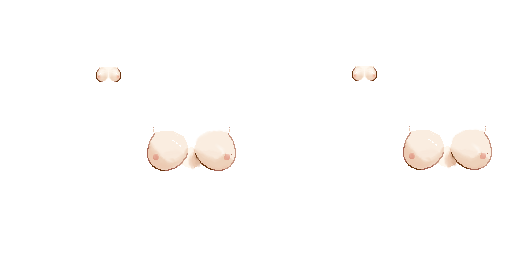
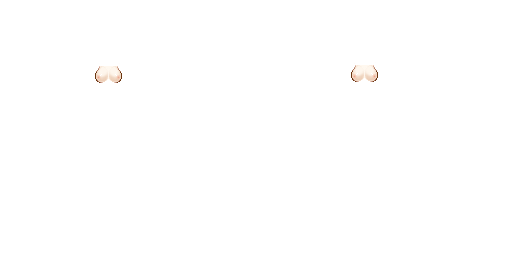
Release the boobas

diff --git a/game/04-Variables/canvasmodel-main.js b/game/04-Variables/canvasmodel-main.js
@@ -1084,7 +1084,7 @@ Renderer.CanvasModels.main = {
 			srcfn(options) {
 				const mannequin = (options.mannequin) ? "mannequin/" : "";
 				const prefix = `img/body/${mannequin}`;
-				const suffix = options.breasts === "cleavage" && options.breast_size >= 3 ? "_clothed.png" : ".png";
+				const suffix = options.breasts === "cleavage" && options.breast_size >= 3 ? "_clothed.png" : V.releaseBoobs === "release" ? "_released.png" : ".png";
 				return `${prefix}breasts/breasts${options.breast_size}${suffix}`;
 			},
 		},
